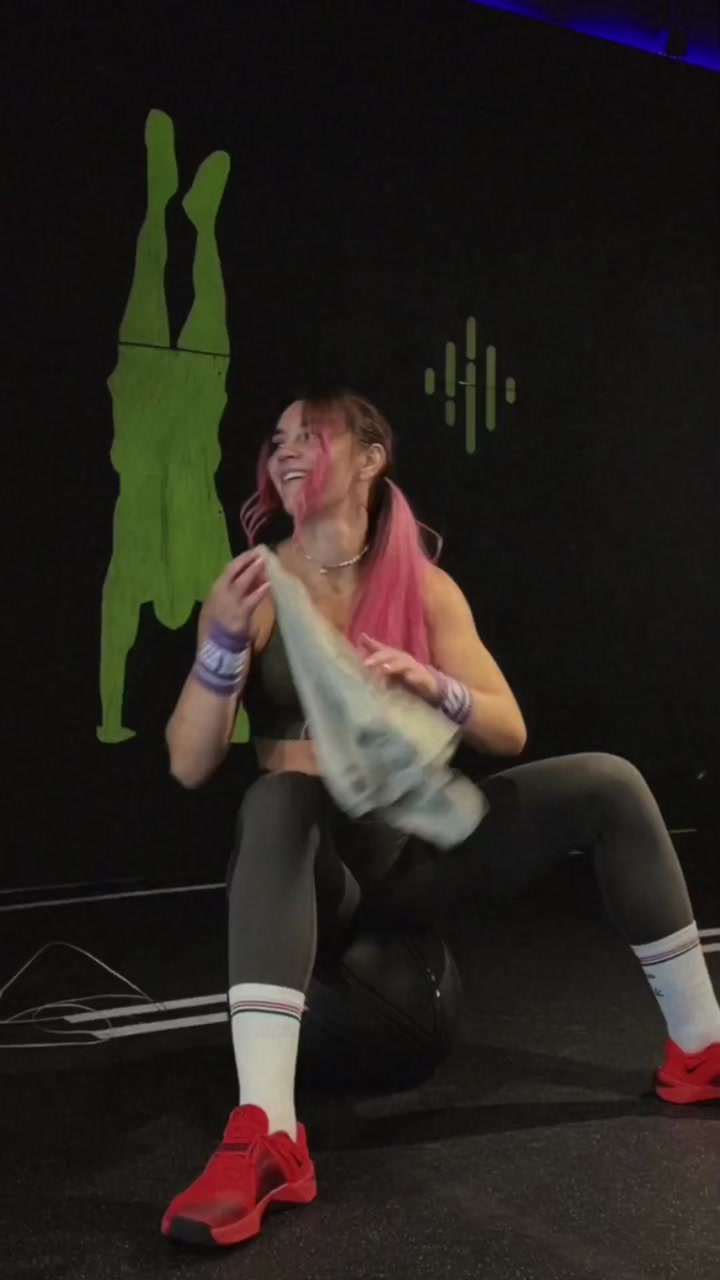
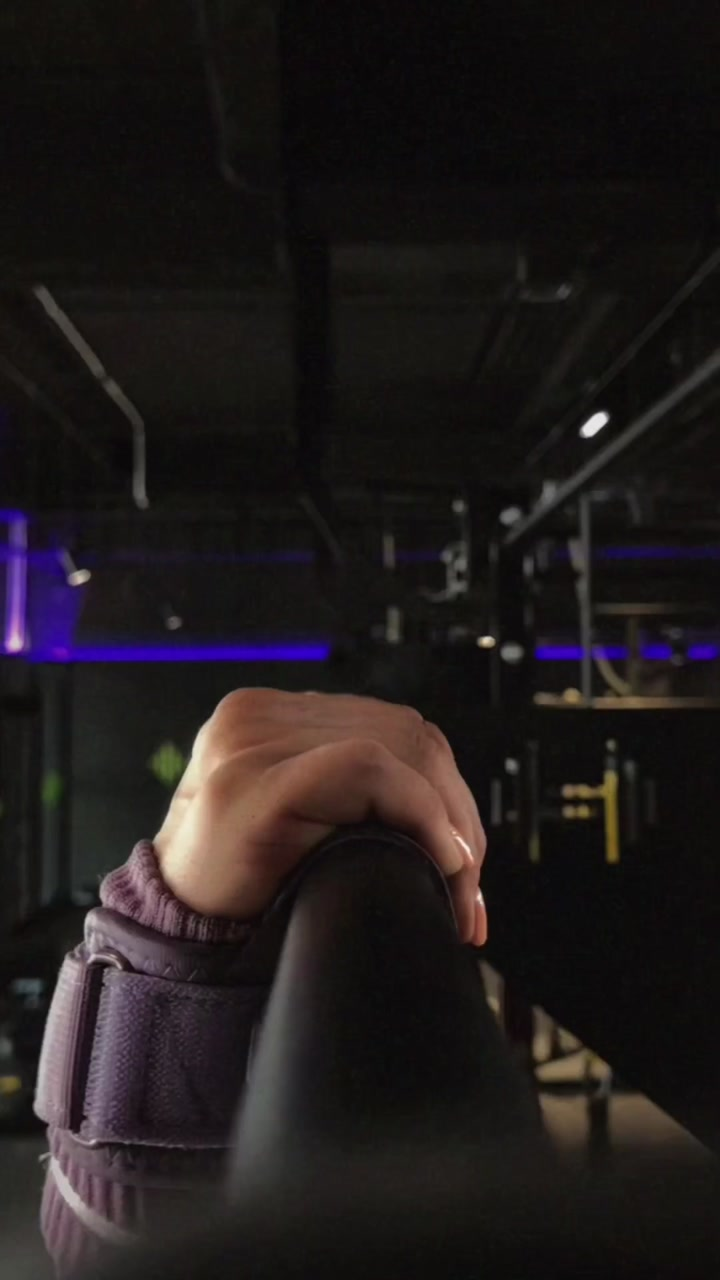
123

diff --git a/index.html b/index.html
@@ -111,7 +111,7 @@
       </div>
     </div>
     <div class="hero-video">
-      <video data-video="2" src="images/hero/video-2.mp4?v=70a2116ba46a" muted="" loop="" playsinline="" preload="metadata" poster="images/hero/video-2-poster.jpg?v=e7137e375ee3"></video>
+      <video data-video="2" src="images/hero/video-2.mp4?v=70a2116ba46a" muted="" loop="" playsinline="" preload="metadata" poster="images/hero/video-2-poster.jpg?v=2f30e3b32d46"></video>
       <button type="button" class="video-big-play" aria-label="Воспроизвести видео 2">
         <svg viewBox="0 0 24 24" fill="currentColor" aria-hidden="true" focusable="false"><path d="M7 3.5v17l13-8.5z"></path></svg>
       </button>
@@ -127,7 +127,7 @@
       </div>
     </div>
     <div class="hero-video">
-      <video data-video="3" src="images/hero/video-3.mp4?v=ecdf342363b3" muted="" loop="" playsinline="" preload="metadata" poster="images/hero/video-3-poster.jpg?v=cf3efb34221d"></video>
+      <video data-video="3" src="images/hero/video-3.mp4?v=ecdf342363b3" muted="" loop="" playsinline="" preload="metadata" poster="images/hero/video-3-poster.jpg?v=7dbf8b27fdb2"></video>
       <button type="button" class="video-big-play" aria-label="Воспроизвести видео 3">
         <svg viewBox="0 0 24 24" fill="currentColor" aria-hidden="true" focusable="false"><path d="M7 3.5v17l13-8.5z"></path></svg>
       </button>
@@ -287,3 +287,4 @@
 
 
 </body></html>
+
